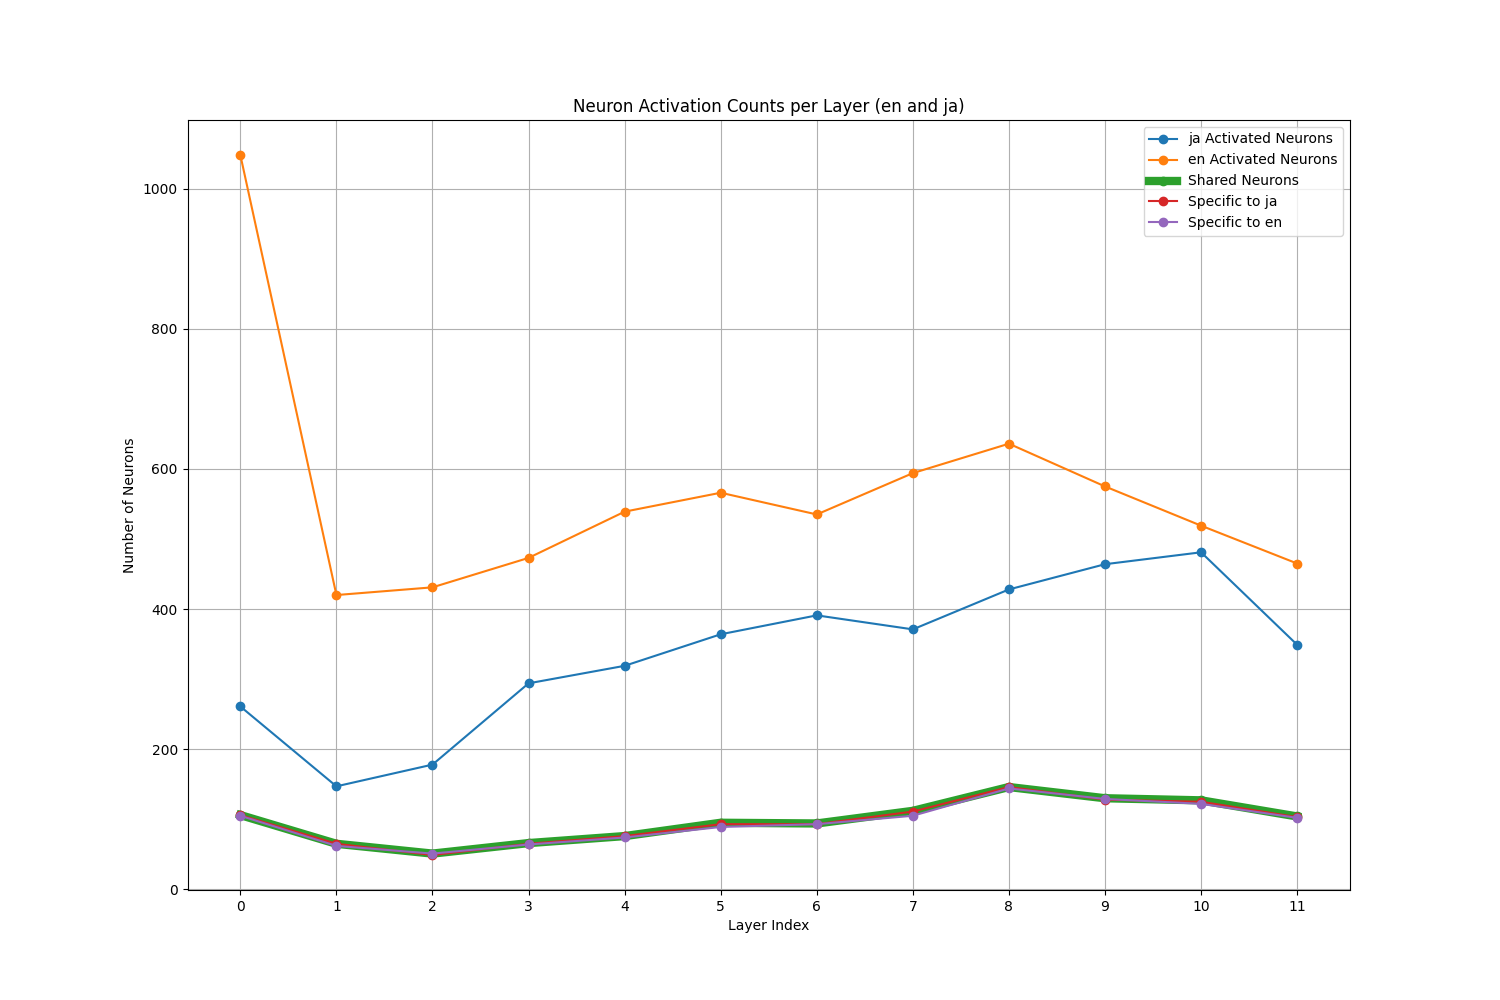
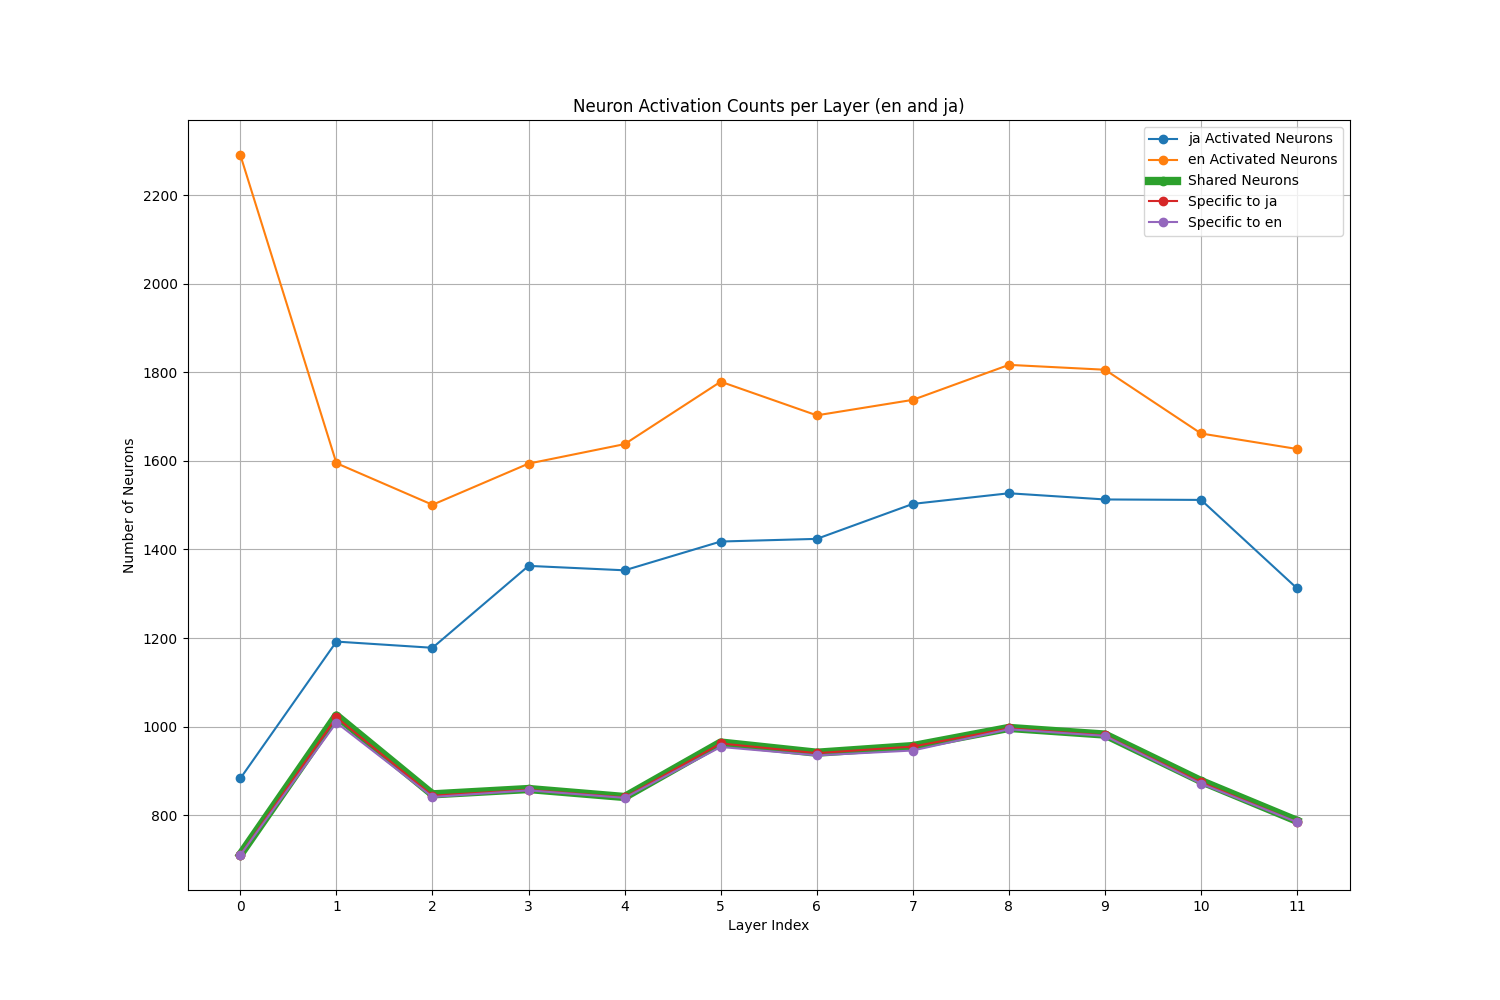
update/neuron_detection_images

diff --git a/activated_neuron/gpt2/neuron_detection.py b/activated_neuron/gpt2/neuron_detection.py
@@ -14,11 +14,11 @@ model_names = {
     # "base": "gpt2",
     "ja": "rinna/japanese-gpt2-small", # ja
     # "de": "ml6team/gpt2-small-german-finetune-oscar", # ger
-    "nl": "GroNLP/gpt2-small-dutch", # du
-    "it": "GroNLP/gpt2-small-italian", # ita
-    "fr": "dbddv01/gpt2-french-small", # fre
-    "ko": "skt/kogpt2-base-v2", # ko
-    "es": "datificate/gpt2-small-spanish" # spa
+    # "nl": "GroNLP/gpt2-small-dutch", # du
+    # "it": "GroNLP/gpt2-small-italian", # ita
+    # "fr": "dbddv01/gpt2-french-small", # fre
+    # "ko": "skt/kogpt2-base-v2", # ko
+    # "es": "datificate/gpt2-small-spanish" # spa
 }
 
 L1 = "en" # L1 is fixed to english
@@ -39,7 +39,7 @@ for L2, model_name in model_names.items():
     tatoeba_data = [(item['translation'][L1], item['translation'][L2]) for item in dataset]
     tatoeba_data_len = len(tatoeba_data)
 
-    neuron_detection_dict = track_neurons_with_text_data(model, tokenizer, tatoeba_data, 0.5)
+    neuron_detection_dict = track_neurons_with_text_data(model, tokenizer, tatoeba_data)
 
     activated_neurons_L1 = neuron_detection_dict["activated_neurons_L1"]
     activated_neurons_L2 = neuron_detection_dict["activated_neurons_L2"]

diff --git a/activated_neuron/gpt2/neuron_detection_funcs.py b/activated_neuron/gpt2/neuron_detection_funcs.py
@@ -93,6 +93,7 @@ def track_neurons_with_text_data(model, tokenizer, data, active_THRESHOLD=0, non
 
             """ activated neurons """
             # activated neurons for L1
+            # torch.nonzero return index, not actual activation values
             activated_neurons_L1_layer = torch.nonzero(mlp_activation_L1[layer_idx] > active_THRESHOLD).cpu().numpy()
             # remove activation to 0-th token (for gpt2, it's <|begin_of_text|>)
             activated_neurons_L1_layer = activated_neurons_L1_layer[activated_neurons_L1_layer[:, 1] != 0]
